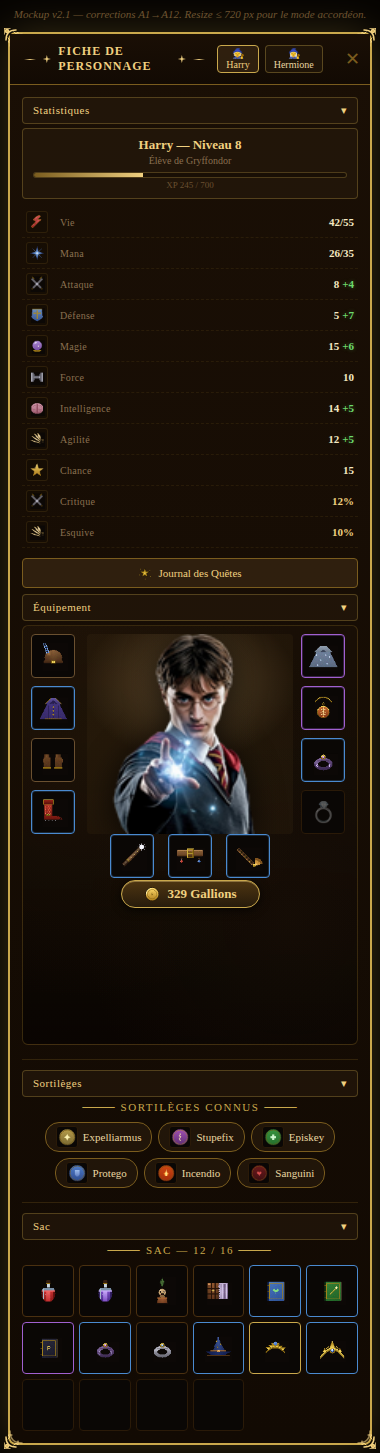
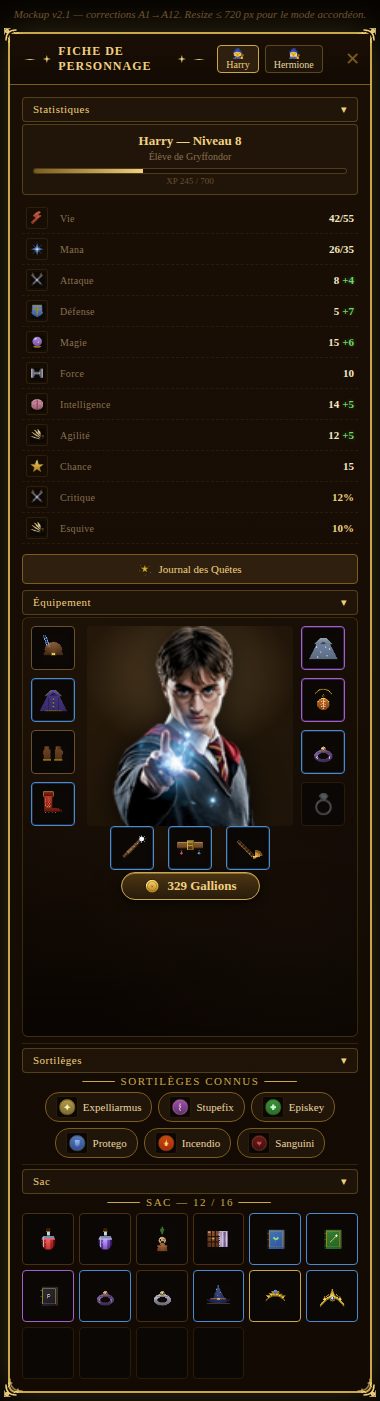
fix(character): mockup v2.16 — espaces inter-sections compactés en mobile
Demande utilisateur : trop d'espace entre la zone Équipement et le Sac
en mode mobile.

Cause : sur les sections .spells-strip et .inv-section,
margin-top:14px + border-top + padding-top:10px + bouton .section-toggle
avec margin-bottom:4px → ~30 px cumulés entre chaque section.

Fix mobile-only (≤ 720px) :
- .section-toggle  margin-bottom 4px → 2px, padding-y 6→5
- .spells-strip / .inv-section  margin-top 14→6, padding-top 10→4
- .panel-title     margin-bottom 8→4

Desktop inchangé.

diff --git a/tools/mockup_character_v2.html b/tools/mockup_character_v2.html
@@ -385,7 +385,10 @@ body {
   .modal-title { font-size:12px; letter-spacing:1px; }
   .tab          { font-size:10px; padding:2px 8px; }
   .char-grid    { grid-template-columns:1fr; gap:6px; }
-  .section-toggle { display:block; }
+  /* Mobile : sections accordéon plus serrées */
+  .section-toggle { display:block; margin-bottom:2px; padding:5px 10px; }
+  .spells-strip, .inv-section { margin-top:6px; padding-top:4px; }
+  .panel-title { margin:0 0 4px; }
   /* A10 — mobile : flex/grid identique, juste tailles réduites */
   .paper-doll   { min-height:420px; }
   .paper-doll-main { grid-template-columns: 48px 1fr 48px; }
